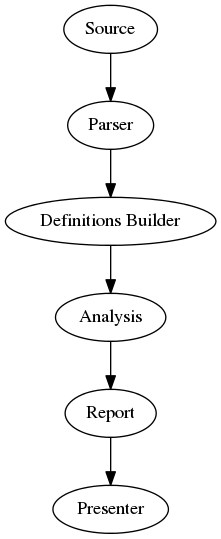
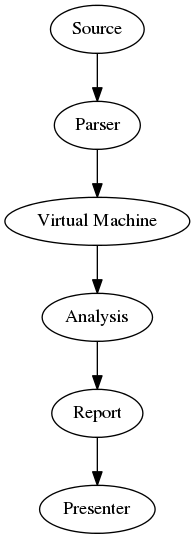
Updated the Markdown based documentation.

diff --git a/doc/code_analysis.md b/doc/code_analysis.md
@@ -2,11 +2,11 @@
 # Code Analysis
 
 Code analysis in ruby-lint is done using a set of classes that extend
-{RubyLint::Iterator}. This base class provides various methods for easily
+{RubyLint::Analysis::Base}. This base class provides various methods for easily
 walking over an AST by using callback methods based on the node types. For
 example, the callback method `on_string` is used before a `(string)` node is
 processed. For more low level details see the API documentation of
-{RubyLint::Iterator}.
+{RubyLint::Iterator} and {RubyLint::Analysis::Base} (which extends the former).
 
 For this guide we'll be creating an analysis class that checks for local
 variables written in camelCase. Whenever it finds these variables a warning
@@ -15,7 +15,7 @@ instead.
 
 At the most basic level this class looks like the following:
 
-    class CamelCaseVariables < RubyLint::Iterator
+    class CamelCaseVariables < RubyLint::Analysis::Base
 
     end
 
@@ -26,7 +26,7 @@ adding errors and the likes.
 To use this class you'll have to create an instance of it and call
 {RubyLint::Iterator#iterate} and pass it an AST:
 
-    ast      = RubyLint::Parser.new('exampleNumber = 10').parse
+    ast      = RubyLint::Parser.new.parse('exampleNumber = 10')
     iterator = CamelCaseVariables.new
 
     iterator.iterate(ast)
@@ -42,13 +42,13 @@ Here X is the name of the node type. Methods that start with `on_` will be
 executed before any child nodes (of the current node) are processed.  Methods
 that start with `after_` will be executed after the node and its child nodes
 have been processed. Each callback method takes a single argument: an instance
-of {RubyLint::Node} containing information about the current node.
+of {RubyLint::AST::Node} containing information about the current node.
 
 In the above example we only need an `on_` callback:
 
-    class CamelCaseVariables < RubyLint::Iterator
-      def on_local_variable(node)
-        if node.name =~ /[a-z][A-Z]/
+    class CamelCaseVariables < RubyLint::Analysis::Base
+      def on_lvar(node)
+        if node.children[0].to_s =~ /[a-z][A-Z]/
           warning('use snake_case for local variables', node)
         end
       end
@@ -72,15 +72,15 @@ use:
 
 The full code of this exercise looks like the following:
 
-    class CamelCaseVariables < RubyLint::Iterator
-      def on_local_variable(node)
-        if node.name =~ /[a-z][A-Z]/
+    class CamelCaseVariables < RubyLint::Analysis::Base
+      def on_lvar(node)
+        if node.children[0].to_s =~ /[a-z][A-Z]/
           warning('use snake_case for local variables', node)
         end
       end
     end
 
-    ast       = RubyLint::Parser.new('exampleNumber = 10').parse
+    ast       = RubyLint::Parser.new.parse('exampleNumber = 10')
     report    = RubyLint::Report.new
     iterator  = CamelCaseVariables.new(:report => report)
     presenter = RubyLint::Presenter::Text.new

diff --git a/doc/architecture.md b/doc/architecture.md
@@ -20,28 +20,22 @@ would look like the following:
 
     (string "hello")
 
-Each node is an instance of {RubyLint::Node}. Each node can contain a number of
-child nodes. If one were to format the above S expression as an Array you'd get
-the following:
+Each node is an instance of {RubyLint::AST::Node}. Each node can contain a
+number of child nodes. If one were to format the above S expression as an Array
+you'd get the following:
 
     [:string, ["hello"]]
 
-For more information see the documentation of {RubyLint::Node} and the
-corresponding tests found in `spec/ruby-lint/parser/`.
+The parser used by ruby-lint is the [parser gem][parser gem] and as such
+ruby-lint can support various Ruby implementations and versions.
 
-Currently the parser is based on Ripper, a library that comes with MRI 1.9 and
-newer. Because of this ruby-lint will be unable to support Rubinius and Jruby
-for the time being. In the future this parser will be replaced with something
-that runs on all the common Ruby implementations.
+## Virtual Machine
 
-## Definitions Builder
-
-The {RubyLint::DefinitionsBuilder definitions builder} iterates over the AST
-and evaluates it so that variables can be created, methods can be defined and
-so on. Once finished a single {RubyLint::Definition::RubyObject} definition is
-created that contains all the Ruby data of a block of Ruby code.
-
-One can see the definitions builder as a very basic virtual machine.
+The ruby-lint virtual machine is a stack based virtual machine used for
+partially evaluating Ruby code in order to build definitions of method
+definitions, class definitions, variable assignments and so on. For more
+information on the internals of this class see the documentation of
+{RubyLint::VirtualMachine}.
 
 ## Analysis
 
@@ -61,3 +55,5 @@ as well as a message (e.g. an error message).
 Presenters are classes tasked with the job of presenting a report. Currently
 ruby-lint ships with a presenter that outputs a report in plain text as well as
 one that outputs a report in JSON.
+
+[parser gem]: https://github.com/whitequark/parser

diff --git a/README.md b/README.md
@@ -84,20 +84,6 @@ of AST nodes), are either unmaintained or severely limited in what they can do.
 * {file:code\_analysis Code Analysis}
 * {file:configuration Configuration}
 
-Noteworthy constants:
-
-* {RubyLint::Node}
-* {RubyLint::Iterator}
-* {RubyLint::Report}
-* {RubyLint::Presenter::Text}
-
-Helper modules:
-
-* {RubyLint::Helper::ConstantPaths}
-* {RubyLint::Helper::Conversion}
-* {RubyLint::Helper::CurrentScope}
-* {RubyLint::Helper::Methods}
-
 ## License
 
 All source code in this repository is licensed under the MIT license unless
